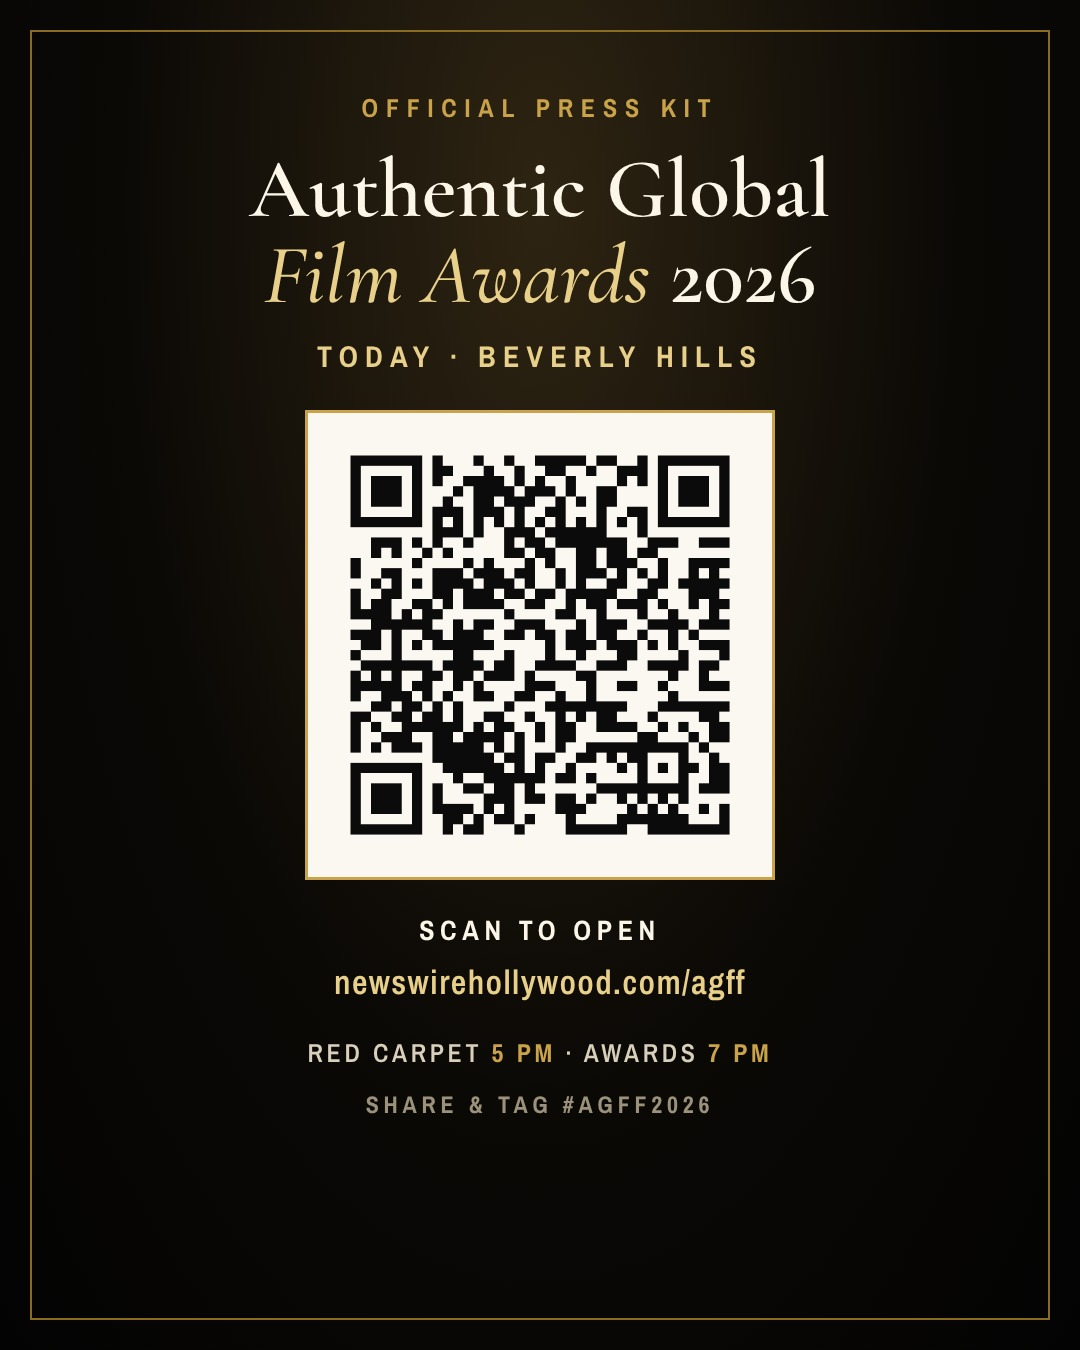
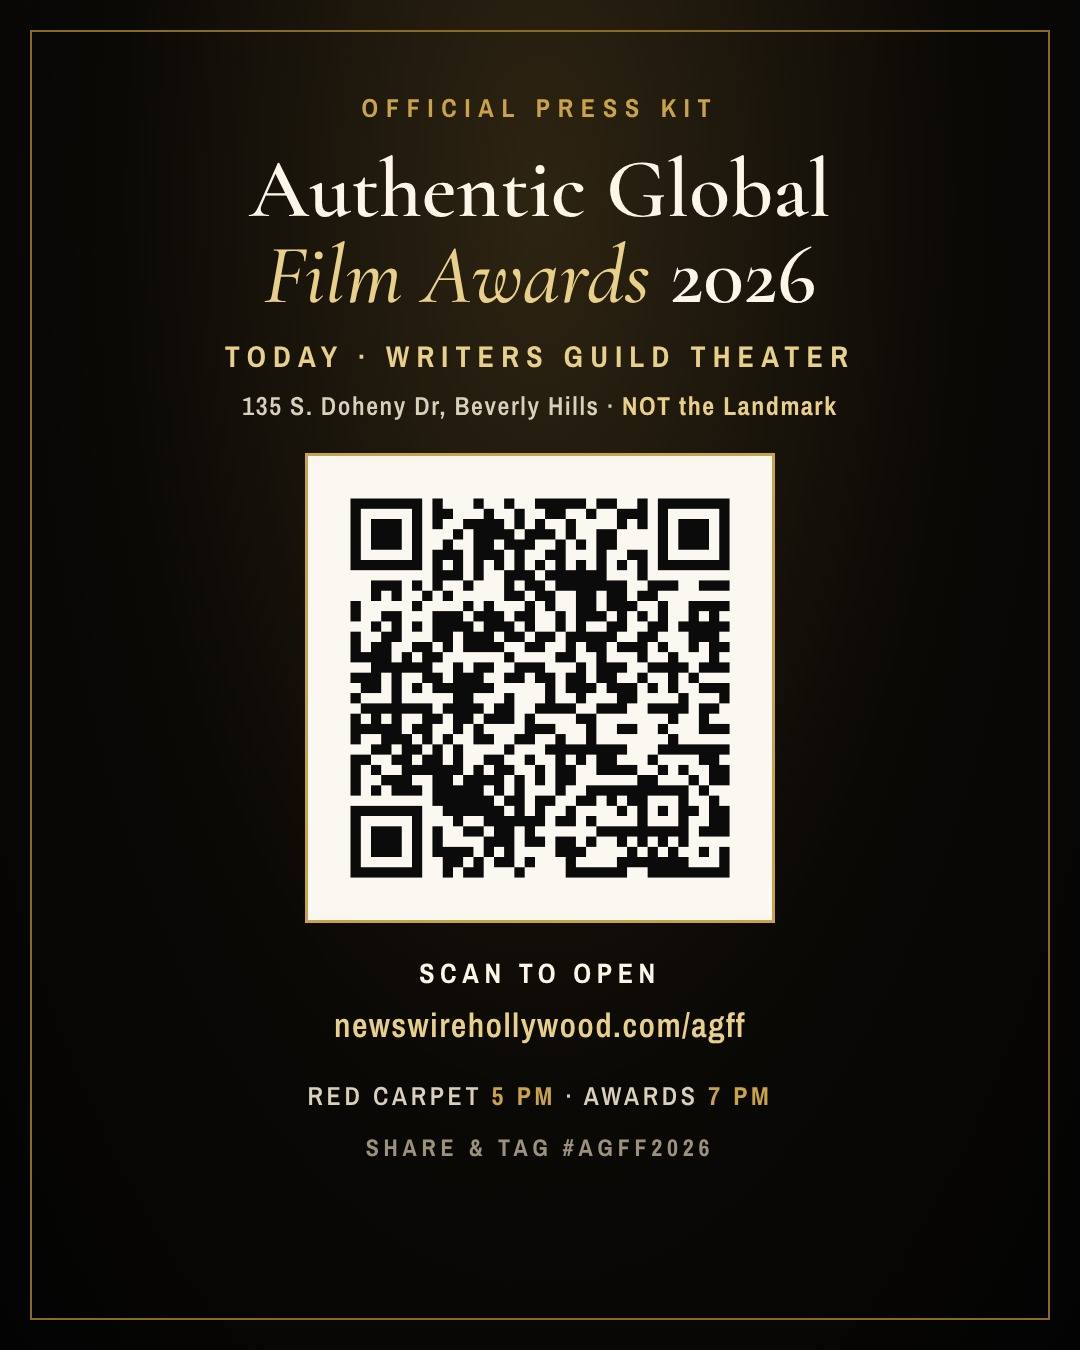
AGFF 2026: QR card with venue (Writers Guild, not the Landmark); short link /agff-qr
Claude-Session: https://claude.ai/code/session_01VGmSAWtf3JSPEDyd3ovWKK

Changed region(s): [[0.2139, 0.2489, 0.7944, 0.8711]]

diff --git a/docs/agff-qr.html b/docs/agff-qr.html
@@ -1,0 +1,7 @@
+<!DOCTYPE html>
+<html lang="en"><head><meta charset="utf-8"><meta name="viewport" content="width=device-width,initial-scale=1">
+<title>AGFF 2026 Digital Press Kit QR</title><meta name="robots" content="noindex">
+<meta property="og:image" content="https://newswirehollywood.com/img/agff-2026-press-kit-qr-card.jpg">
+<style>body{margin:0;background:#050505;color:#E8CF8A;font-family:Arial,sans-serif;text-align:center}img{width:100%;max-width:540px;display:block;margin:0 auto}p{padding:14px 16px;font-size:15px}a{color:#E8CF8A}</style></head>
+<body><img src="img/agff-2026-press-kit-qr-card.jpg" alt="Authentic Global Film Awards 2026 Digital Press Kit QR code. Writers Guild Theater, 135 S. Doheny Dr, Beverly Hills">
+<p>Press and hold the image to save or share it.<br><a href="agff-2026.html">Open the Digital Press Kit</a></p></body></html>
